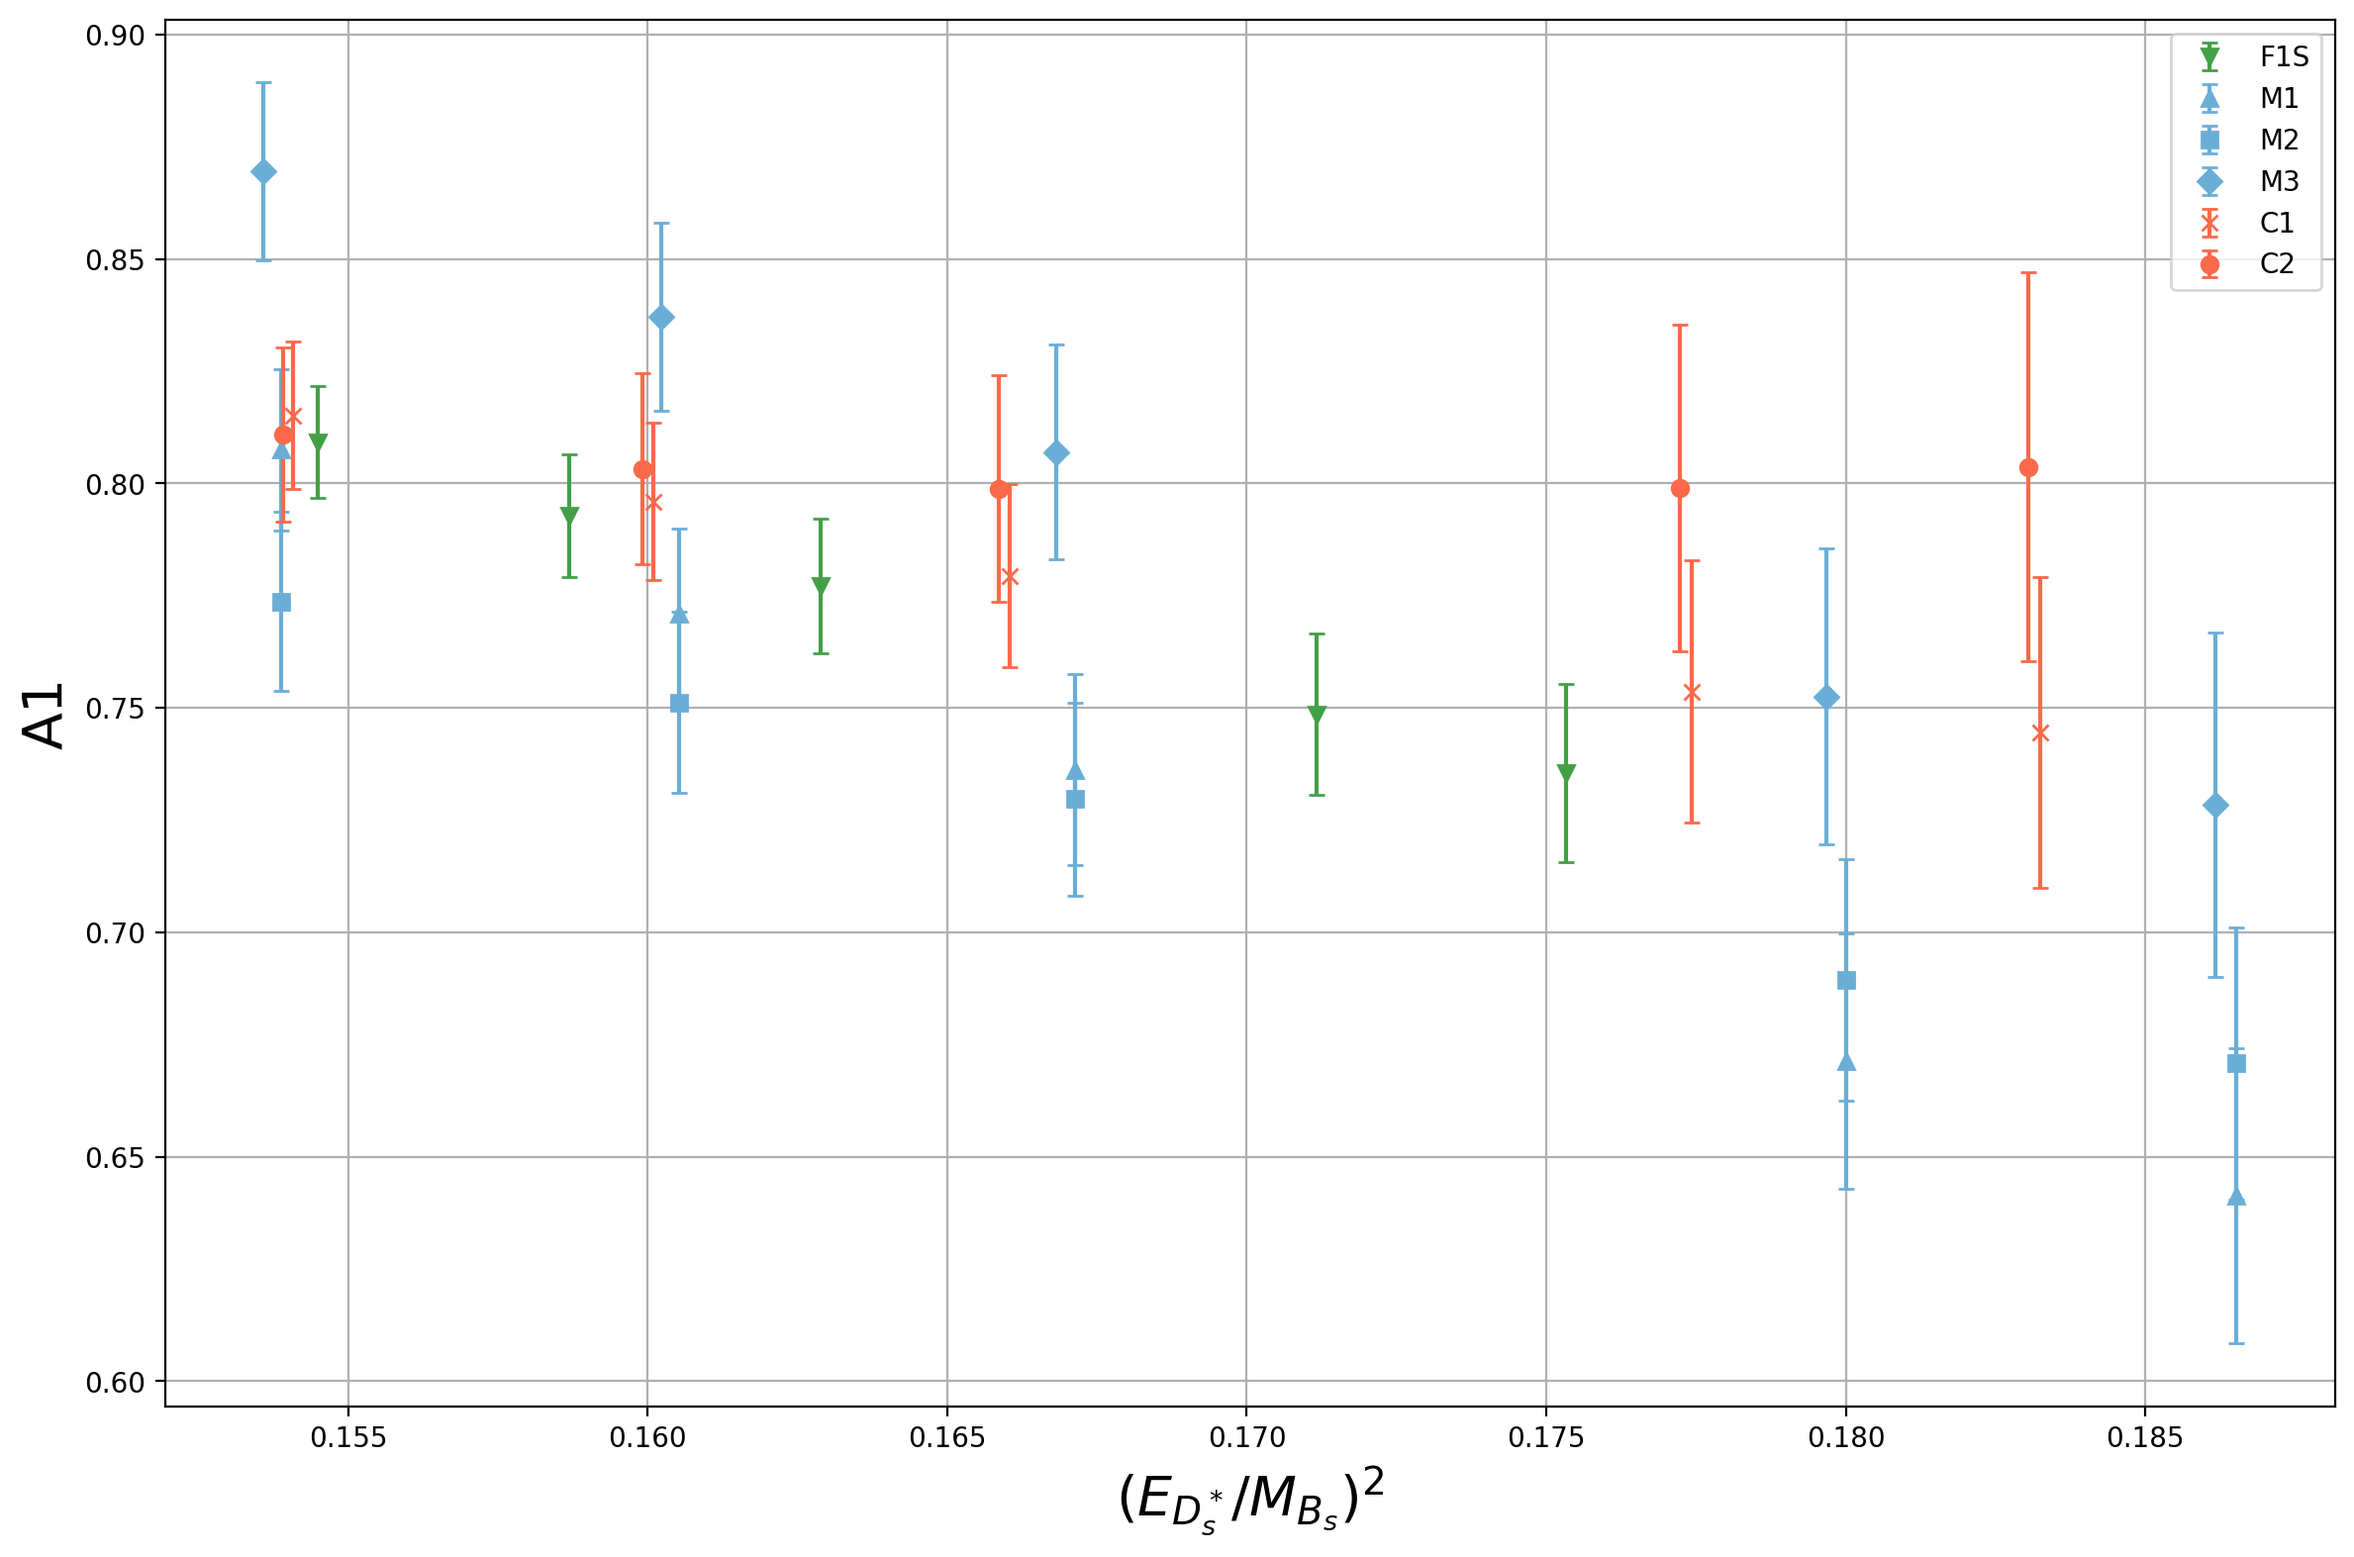
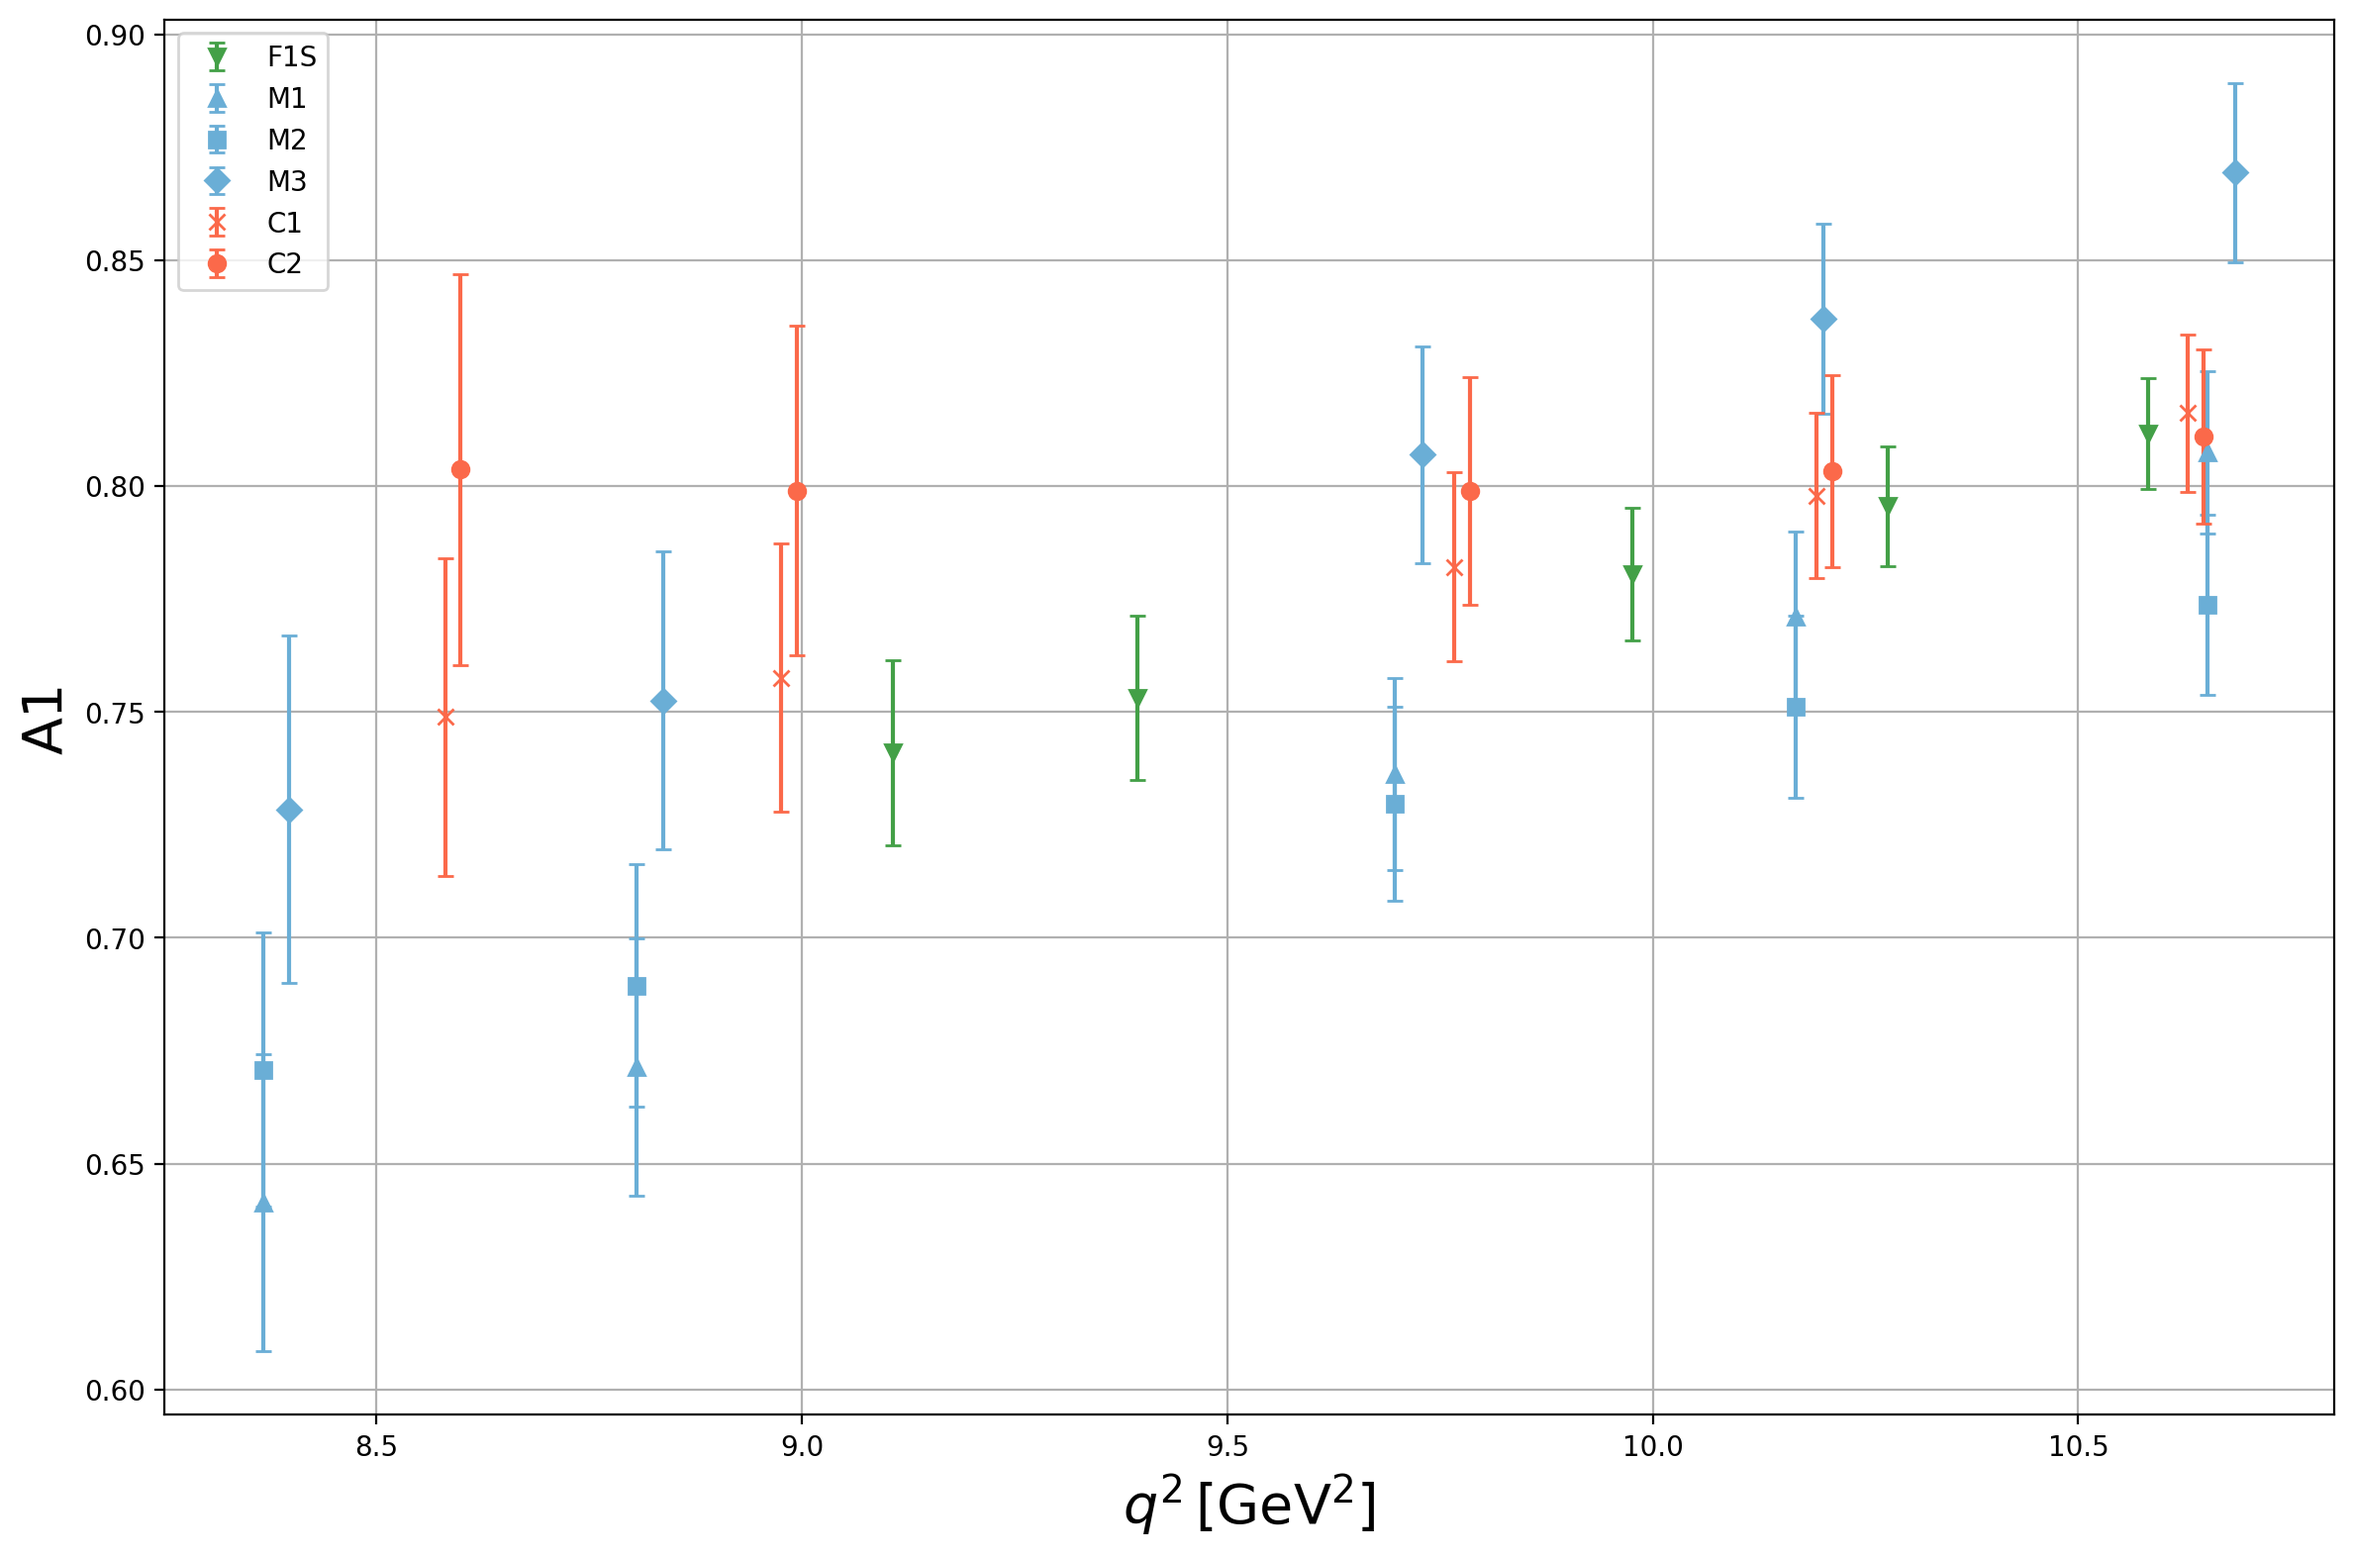
final plot

diff --git a/Code/Plot-Final-Charm.py b/Code/Plot-Final-Charm.py
@@ -228,7 +228,7 @@ def make_plot(FF, outname):
         y_vals = [prefactor * y for y in y_vals_raw]
         y_errs = [prefactor * e for e in y_errs_raw]
 
-        '''
+        
         plt.errorbar(
             x_vals, y_vals, yerr=y_errs,
             fmt=marker,
@@ -236,8 +236,8 @@ def make_plot(FF, outname):
             capsize=3,
             label=f"{ens}"
         )
+        
         '''
-
         plt.errorbar(
             ratio_lst, y_vals, yerr=y_errs,
             fmt=marker,
@@ -245,10 +245,11 @@ def make_plot(FF, outname):
             capsize=3,
             label=f"{ens}"
         )
+        '''
 
     plt.legend()
-    #plt.xlabel(r"$q^2\,[\mathrm{GeV}^2]$", fontsize=20)
-    plt.xlabel(r"$(E_{D_s^*}/M_{B_s})^2$", fontsize=20)
+    plt.xlabel(r"$q^2\,[\mathrm{GeV}^2]$", fontsize=20)
+    #plt.xlabel(r"$(E_{D_s^*}/M_{B_s})^2$", fontsize=20)
     plt.ylabel(FF, fontsize=20)
     plt.grid(True)
     plt.tight_layout()
